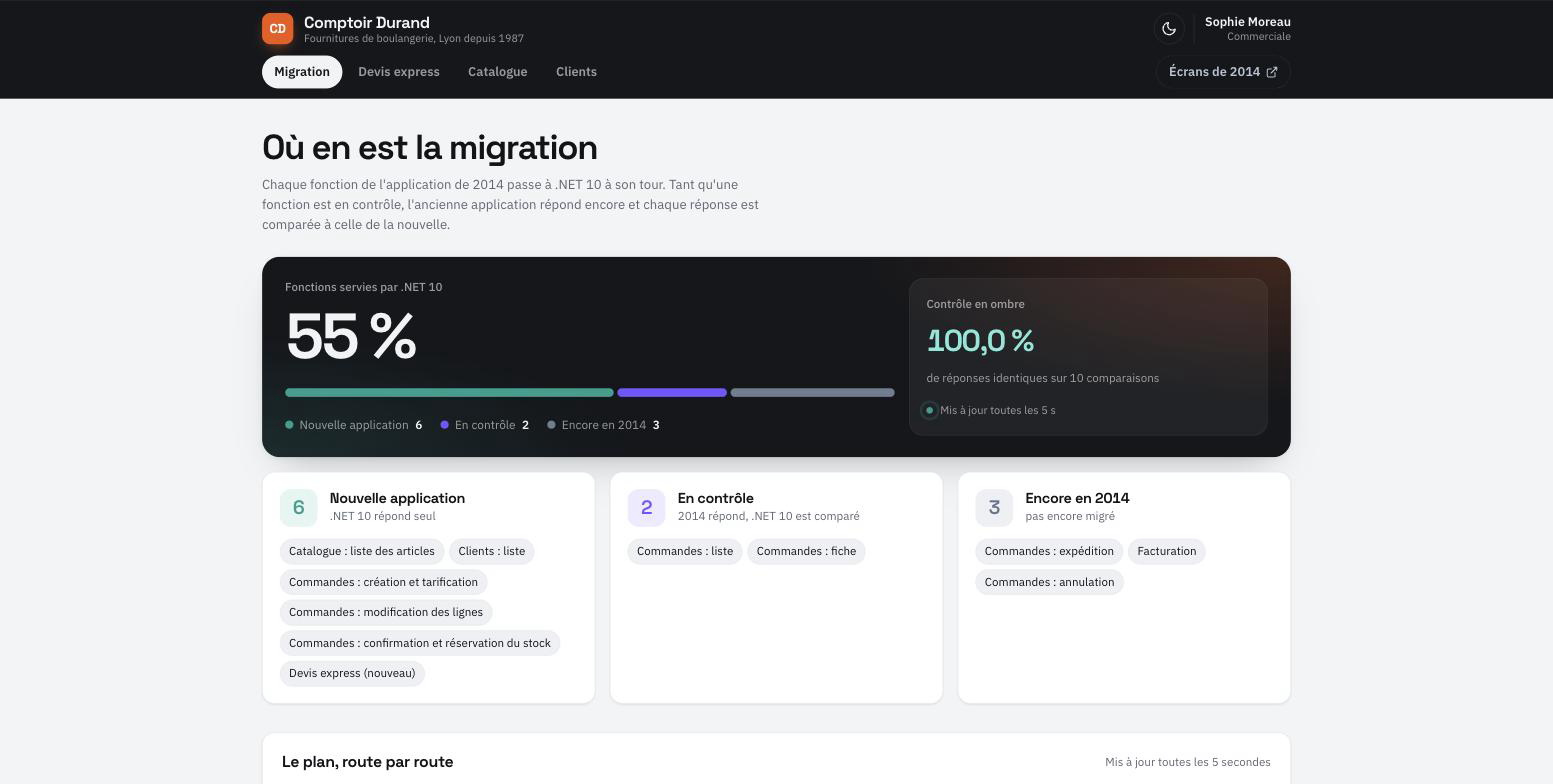
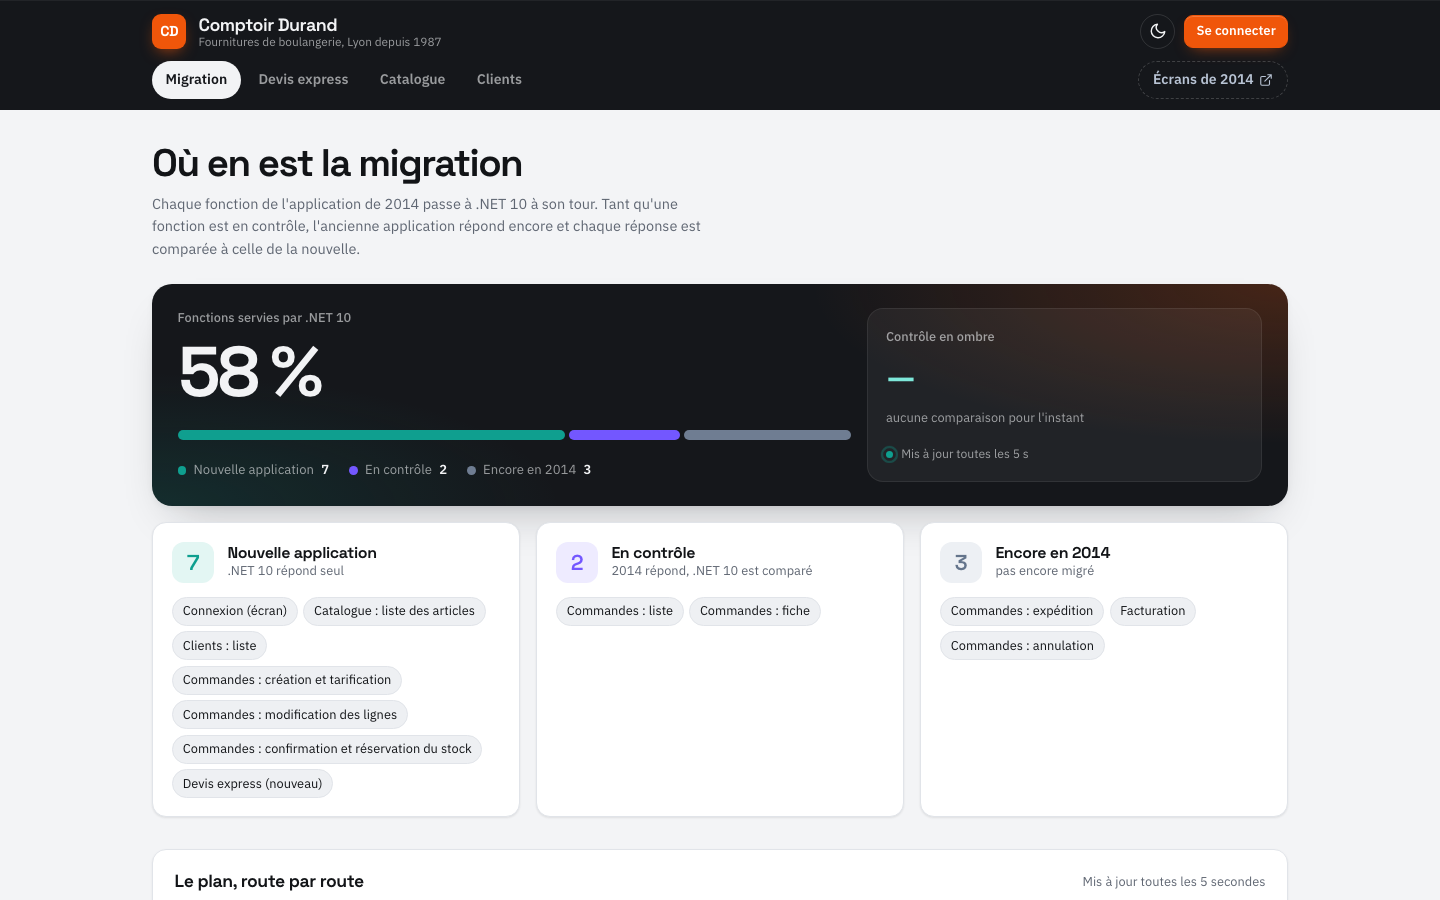
docs: refresh README screenshots with the migrated sign-in

Changed region(s): [[0.0, 0.0, 1.0, 0.8878], [0.125, 0.949, 0.2812, 1.0], [0.7188, 0.949, 0.875, 1.0]]

diff --git a/README.md b/README.md
@@ -27,6 +27,12 @@ differential tests and every switch backed by shadow traffic.
     <td align="center"><sub>New: an express quote the legacy could not do</sub></td>
     <td align="center"><sub>The 2014 screens, unchanged, now partly answered by .NET 10</sub></td>
   </tr>
+  <tr>
+    <td colspan="2"><img src="docs/images/login.png" alt="The migrated sign-in screen, the 2014 application still checking the password"></td>
+  </tr>
+  <tr>
+    <td colspan="2" align="center"><sub>Migrated: the sign-in screen, while the 2014 application still checks the password (ADR 0010)</sub></td>
+  </tr>
 </table>
 
 </div>
